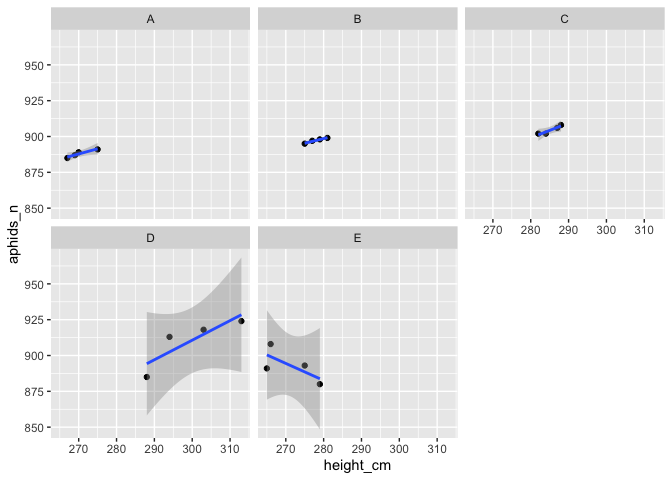
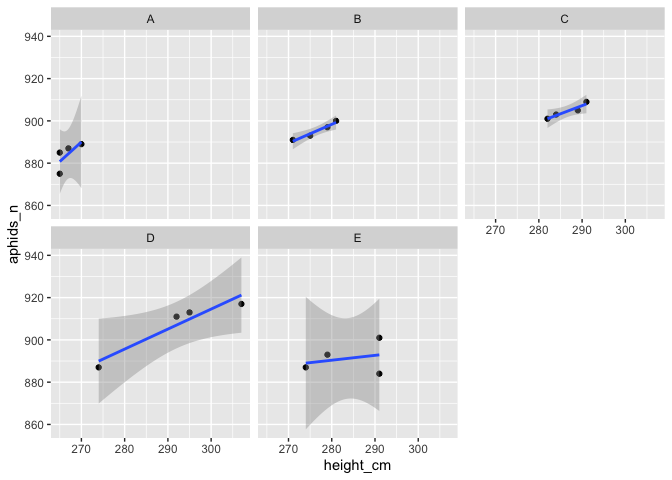
completed script edits to produce homework wrap-up

diff --git a/tidyverse_intro.md b/tidyverse_intro.md
@@ -134,26 +134,26 @@ kable(ex_1)
 
 | plot\_replicate | date                             | measurement\_1 |
 |:----------------|:---------------------------------|---------------:|
-| A\_1            | 2016-06-12                       |             15 |
-| A\_2            | 2016-06-12                       |             10 |
-| A\_3            | 2016-06-12                       |             11 |
-| A\_4            | 2016-06-12                       |             11 |
-| B\_1            | 2016-06-12                       |             10 |
-| B\_2            | 2016-06-12                       |              9 |
-| B\_3            | 2016-06-12                       |              4 |
-| B\_4            | 2016-06-12                       |              8 |
+| A\_1            | 2016-06-12                       |              8 |
+| A\_2            | 2016-06-12                       |              7 |
+| A\_3            | 2016-06-12                       |              9 |
+| A\_4            | 2016-06-12                       |              7 |
+| B\_1            | 2016-06-12                       |             12 |
+| B\_2            | 2016-06-12                       |             16 |
+| B\_3            | 2016-06-12                       |              9 |
+| B\_4            | 2016-06-12                       |             10 |
 | C\_1            | 2016-06-12                       |              6 |
-| C\_2            | 2016-06-12                       |              7 |
-| C\_3            | 2016-06-12                       |              7 |
+| C\_2            | 2016-06-12                       |              9 |
+| C\_3            | 2016-06-12                       |              9 |
 | C\_4            | 2016-06-12                       |             10 |
-| D\_1            | 2016-06-12                       |              9 |
-| D\_2            | 2016-06-12                       |              9 |
-| D\_3            | 2016-06-12                       |             15 |
-| D\_4            | 2016-06-12                       |              6 |
+| D\_1            | 2016-06-12                       |             10 |
+| D\_2            | 2016-06-12                       |              5 |
+| D\_3            | 2016-06-12                       |             11 |
+| D\_4            | 2016-06-12                       |              7 |
 | E\_1            | 2016-06-12                       |             11 |
-| E\_2            | 2016-06-12                       |              8 |
-| E\_3            | 2016-06-12                       |             10 |
-| E\_4            | 2016-06-12, measured after lunch |             11 |
+| E\_2            | 2016-06-12                       |             12 |
+| E\_3            | 2016-06-12                       |             11 |
+| E\_4            | 2016-06-12, measured after lunch |             13 |
 
 ``` r
 # View(ex_1)
@@ -167,26 +167,26 @@ aggregate(measurement_1 ~ plot_replicate, FUN = mean, data = ex_1)
 ```
 
     ##    plot_replicate measurement_1
-    ## 1             A_1            15
-    ## 2             A_2            10
-    ## 3             A_3            11
-    ## 4             A_4            11
-    ## 5             B_1            10
-    ## 6             B_2             9
-    ## 7             B_3             4
-    ## 8             B_4             8
+    ## 1             A_1             8
+    ## 2             A_2             7
+    ## 3             A_3             9
+    ## 4             A_4             7
+    ## 5             B_1            12
+    ## 6             B_2            16
+    ## 7             B_3             9
+    ## 8             B_4            10
     ## 9             C_1             6
-    ## 10            C_2             7
-    ## 11            C_3             7
+    ## 10            C_2             9
+    ## 11            C_3             9
     ## 12            C_4            10
-    ## 13            D_1             9
-    ## 14            D_2             9
-    ## 15            D_3            15
-    ## 16            D_4             6
+    ## 13            D_1            10
+    ## 14            D_2             5
+    ## 15            D_3            11
+    ## 16            D_4             7
     ## 17            E_1            11
-    ## 18            E_2             8
-    ## 19            E_3            10
-    ## 20            E_4            11
+    ## 18            E_2            12
+    ## 19            E_3            11
+    ## 20            E_4            13
 
 Guess it’s “back to excel”
 
@@ -202,46 +202,46 @@ kable(ex_2)
 
 | plot | replicate | parameter  | value |
 |:-----|----------:|:-----------|------:|
-| A    |         1 | aphids\_n  |   897 |
-| A    |         1 | height\_cm |   277 |
-| A    |         2 | aphids\_n  |   891 |
-| A    |         2 | height\_cm |   291 |
-| A    |         3 | aphids\_n  |   914 |
-| A    |         3 | height\_cm |   277 |
-| A    |         4 | aphids\_n  |   897 |
-| A    |         4 | height\_cm |   282 |
-| B    |         1 | aphids\_n  |   882 |
-| B    |         1 | height\_cm |   281 |
-| B    |         2 | aphids\_n  |   919 |
-| B    |         2 | height\_cm |   277 |
-| B    |         3 | aphids\_n  |   888 |
-| B    |         3 | height\_cm |   268 |
-| B    |         4 | aphids\_n  |   888 |
-| B    |         4 | height\_cm |   261 |
-| C    |         1 | aphids\_n  |   899 |
-| C    |         1 | height\_cm |   267 |
-| C    |         2 | aphids\_n  |   921 |
-| C    |         2 | height\_cm |   292 |
-| C    |         3 | aphids\_n  |   914 |
-| C    |         3 | height\_cm |   256 |
-| C    |         4 | aphids\_n  |   917 |
-| C    |         4 | height\_cm |   258 |
-| D    |         1 | aphids\_n  |   888 |
-| D    |         1 | height\_cm |   259 |
-| D    |         2 | aphids\_n  |   907 |
-| D    |         2 | height\_cm |   276 |
-| D    |         3 | aphids\_n  |   911 |
-| D    |         3 | height\_cm |   289 |
-| D    |         4 | aphids\_n  |   896 |
-| D    |         4 | height\_cm |   278 |
-| E    |         1 | aphids\_n  |   894 |
-| E    |         1 | height\_cm |   287 |
-| E    |         2 | aphids\_n  |   901 |
-| E    |         2 | height\_cm |   247 |
-| E    |         3 | aphids\_n  |   884 |
-| E    |         3 | height\_cm |   269 |
-| E    |         4 | aphids\_n  |   904 |
-| E    |         4 | height\_cm |   286 |
+| A    |         1 | aphids\_n  |   905 |
+| A    |         1 | height\_cm |   284 |
+| A    |         2 | aphids\_n  |   910 |
+| A    |         2 | height\_cm |   268 |
+| A    |         3 | aphids\_n  |   888 |
+| A    |         3 | height\_cm |   256 |
+| A    |         4 | aphids\_n  |   916 |
+| A    |         4 | height\_cm |   270 |
+| B    |         1 | aphids\_n  |   907 |
+| B    |         1 | height\_cm |   250 |
+| B    |         2 | aphids\_n  |   896 |
+| B    |         2 | height\_cm |   265 |
+| B    |         3 | aphids\_n  |   898 |
+| B    |         3 | height\_cm |   277 |
+| B    |         4 | aphids\_n  |   909 |
+| B    |         4 | height\_cm |   286 |
+| C    |         1 | aphids\_n  |   898 |
+| C    |         1 | height\_cm |   287 |
+| C    |         2 | aphids\_n  |   899 |
+| C    |         2 | height\_cm |   262 |
+| C    |         3 | aphids\_n  |   896 |
+| C    |         3 | height\_cm |   282 |
+| C    |         4 | aphids\_n  |   913 |
+| C    |         4 | height\_cm |   277 |
+| D    |         1 | aphids\_n  |   918 |
+| D    |         1 | height\_cm |   288 |
+| D    |         2 | aphids\_n  |   910 |
+| D    |         2 | height\_cm |   273 |
+| D    |         3 | aphids\_n  |   889 |
+| D    |         3 | height\_cm |   279 |
+| D    |         4 | aphids\_n  |   906 |
+| D    |         4 | height\_cm |   285 |
+| E    |         1 | aphids\_n  |   899 |
+| E    |         1 | height\_cm |   268 |
+| E    |         2 | aphids\_n  |   910 |
+| E    |         2 | height\_cm |   276 |
+| E    |         3 | aphids\_n  |   898 |
+| E    |         3 | height\_cm |   295 |
+| E    |         4 | aphids\_n  |   903 |
+| E    |         4 | height\_cm |   264 |
 
 ``` r
 # View(ex_2)
@@ -1411,26 +1411,26 @@ hw_1 %>%
     ## # A tibble: 20 x 4
     ##    plot  replicate date       measurement_1
     ##    <chr> <chr>     <chr>              <int>
-    ##  1 A     1         2016-06-12            12
-    ##  2 A     2         2016-06-12             3
-    ##  3 A     3         2016-06-12            14
-    ##  4 A     4         2016-06-12            10
-    ##  5 B     1         2016-06-12            10
-    ##  6 B     2         2016-06-12            12
-    ##  7 B     3         2016-06-12            15
+    ##  1 A     1         2016-06-12            10
+    ##  2 A     2         2016-06-12            11
+    ##  3 A     3         2016-06-12            11
+    ##  4 A     4         2016-06-12             8
+    ##  5 B     1         2016-06-12             9
+    ##  6 B     2         2016-06-12            13
+    ##  7 B     3         2016-06-12             9
     ##  8 B     4         2016-06-12             9
-    ##  9 C     1         2016-06-12            13
-    ## 10 C     2         2016-06-12             9
-    ## 11 C     3         2016-06-12             8
-    ## 12 C     4         2016-06-12            11
-    ## 13 D     1         2016-06-12            13
-    ## 14 D     2         2016-06-12            11
-    ## 15 D     3         2016-06-12            13
-    ## 16 D     4         2016-06-12            11
-    ## 17 E     1         2016-06-12            13
-    ## 18 E     2         2016-06-12            15
-    ## 19 E     3         2016-06-12            13
-    ## 20 E     4         2016-06-12            12
+    ##  9 C     1         2016-06-12             5
+    ## 10 C     2         2016-06-12            10
+    ## 11 C     3         2016-06-12             9
+    ## 12 C     4         2016-06-12             8
+    ## 13 D     1         2016-06-12             8
+    ## 14 D     2         2016-06-12             7
+    ## 15 D     3         2016-06-12            10
+    ## 16 D     4         2016-06-12            19
+    ## 17 E     1         2016-06-12             8
+    ## 18 E     2         2016-06-12             6
+    ## 19 E     3         2016-06-12            17
+    ## 20 E     4         2016-06-12            10
 
 ## Are aphids more numerous on taller plants?
 
@@ -1475,6 +1475,9 @@ scatterplot (`?geom_point`) using the same configuration of hw\_3, or is
 a transformation necessary to produce both of these plots? What does
 this suggest about independent observations and tidy data?
 
+-   Using `geom_point()` but still a boxplot format was a common
+    misunderstanding
+
 ``` r
 hw_3 <- data.frame(
     plot = rep(LETTERS[1:5], each = 8),
@@ -1494,9 +1497,10 @@ hw_3 %>%
 
 ![](tidyverse_intro_files/figure-gfm/hw_3_solved_1-1.png)<!-- -->
 
-``` r
-# Data are suitable for analysis as-is if the goal is to compare aphid and ant counts in plots
-```
+Data are suitable for analysis as-is if the goal is to compare aphid and
+ant counts in plots. You could argue that each row is already an
+independent observation if you aren’t interested in a relationship
+between ants and aphids.
 
 ``` r
 hw_3 %>% 
@@ -1511,6 +1515,32 @@ hw_3 %>%
     ## `geom_smooth()` using formula 'y ~ x'
 
 ![](tidyverse_intro_files/figure-gfm/hw_3_solved_2-1.png)<!-- -->
+
+Correlations require pivoting, where each row is an independent
+observation.
+
+### Student example
+
+Using `geom_point()` but still really a boxplot format, was a common
+misunderstanding
+
+``` r
+hw_3 %>% 
+    ggplot() +
+    geom_boxplot(aes(insects, count)) + 
+    facet_wrap(vars(plot)) # Even though the data is not fully tidy, we can easily make boxplots in ggplot
+```
+
+![](tidyverse_intro_files/figure-gfm/unnamed-chunk-14-1.png)<!-- -->
+
+``` r
+hw_3 %>% 
+    ggplot() +
+    geom_point(aes(insects, count)) + 
+    facet_wrap(vars(plot)) # Same 
+```
+
+![](tidyverse_intro_files/figure-gfm/unnamed-chunk-14-2.png)<!-- -->
 
 ## Bonus challenge
 
@@ -1566,12 +1596,18 @@ planes %>% glimpse()
 
 In the planes data frame, the variable `tailnum` is associated with the
 airplane `model`. The variable `tailnum` can join the flights and planes
-data frames. `Group_by` and `summarize()` are necessary to answer the
-question. Calling `distinct` avoids two separate rounds of `group_by()`
-and `summarize()`. To reach the answer quickly, calling `arrange()` can
-put the top carrier at the top of the tibble. Alternatively, a second
-call to `summarize` which executes `max()` on the summary variable would
-work.
+data frames. `Group_by` and `summarize()` would typically be used.  
+Calling `distinct` avoids two separate rounds of `group_by()` and
+`summarize()`. Using `n_distinct()` makes things very compact. To reach
+the answer quickly, calling `arrange()` can put the top carrier at the
+top of the tibble. Alternatively, a second call to `summarize`, which
+executes `max()` on the summary variable would work.
+
+-   Use of other than `left_join()` led some astray (others can work but
+    may get complicated)
+-   Some attempted to filter the airports or years; ?flights…
+-   Must join to airplanes df; tailnumbers go with individual planes,
+    not models
 
 ``` r
 flights %>% 
@@ -1622,3 +1658,35 @@ flights %>%
 
 Many paths exist to the answer, but they all lead to American Airlines
 flying the most airplane models out of NYC in 2013.
+
+### Student example
+
+Two of you made this very compact
+
+``` r
+# Grace Erba: very compact, combines tidyverse and traditional tools
+combined.plane.data <- full_join(flights, planes, by = "tailnum")
+combined.plane.data %>% 
+    group_by(carrier) %>%
+    summarise(models = length(unique(model))) # `n_distinct()` also works here
+```
+
+    ## # A tibble: 16 x 2
+    ##    carrier models
+    ##    <chr>    <int>
+    ##  1 9E           3
+    ##  2 AA          32
+    ##  3 AS           4
+    ##  4 B6           7
+    ##  5 DL          25
+    ##  6 EV           6
+    ##  7 F9           3
+    ##  8 FL           7
+    ##  9 HA           1
+    ## 10 MQ           5
+    ## 11 OO           3
+    ## 12 UA          18
+    ## 13 US          13
+    ## 14 VX           3
+    ## 15 WN          22
+    ## 16 YV           3
